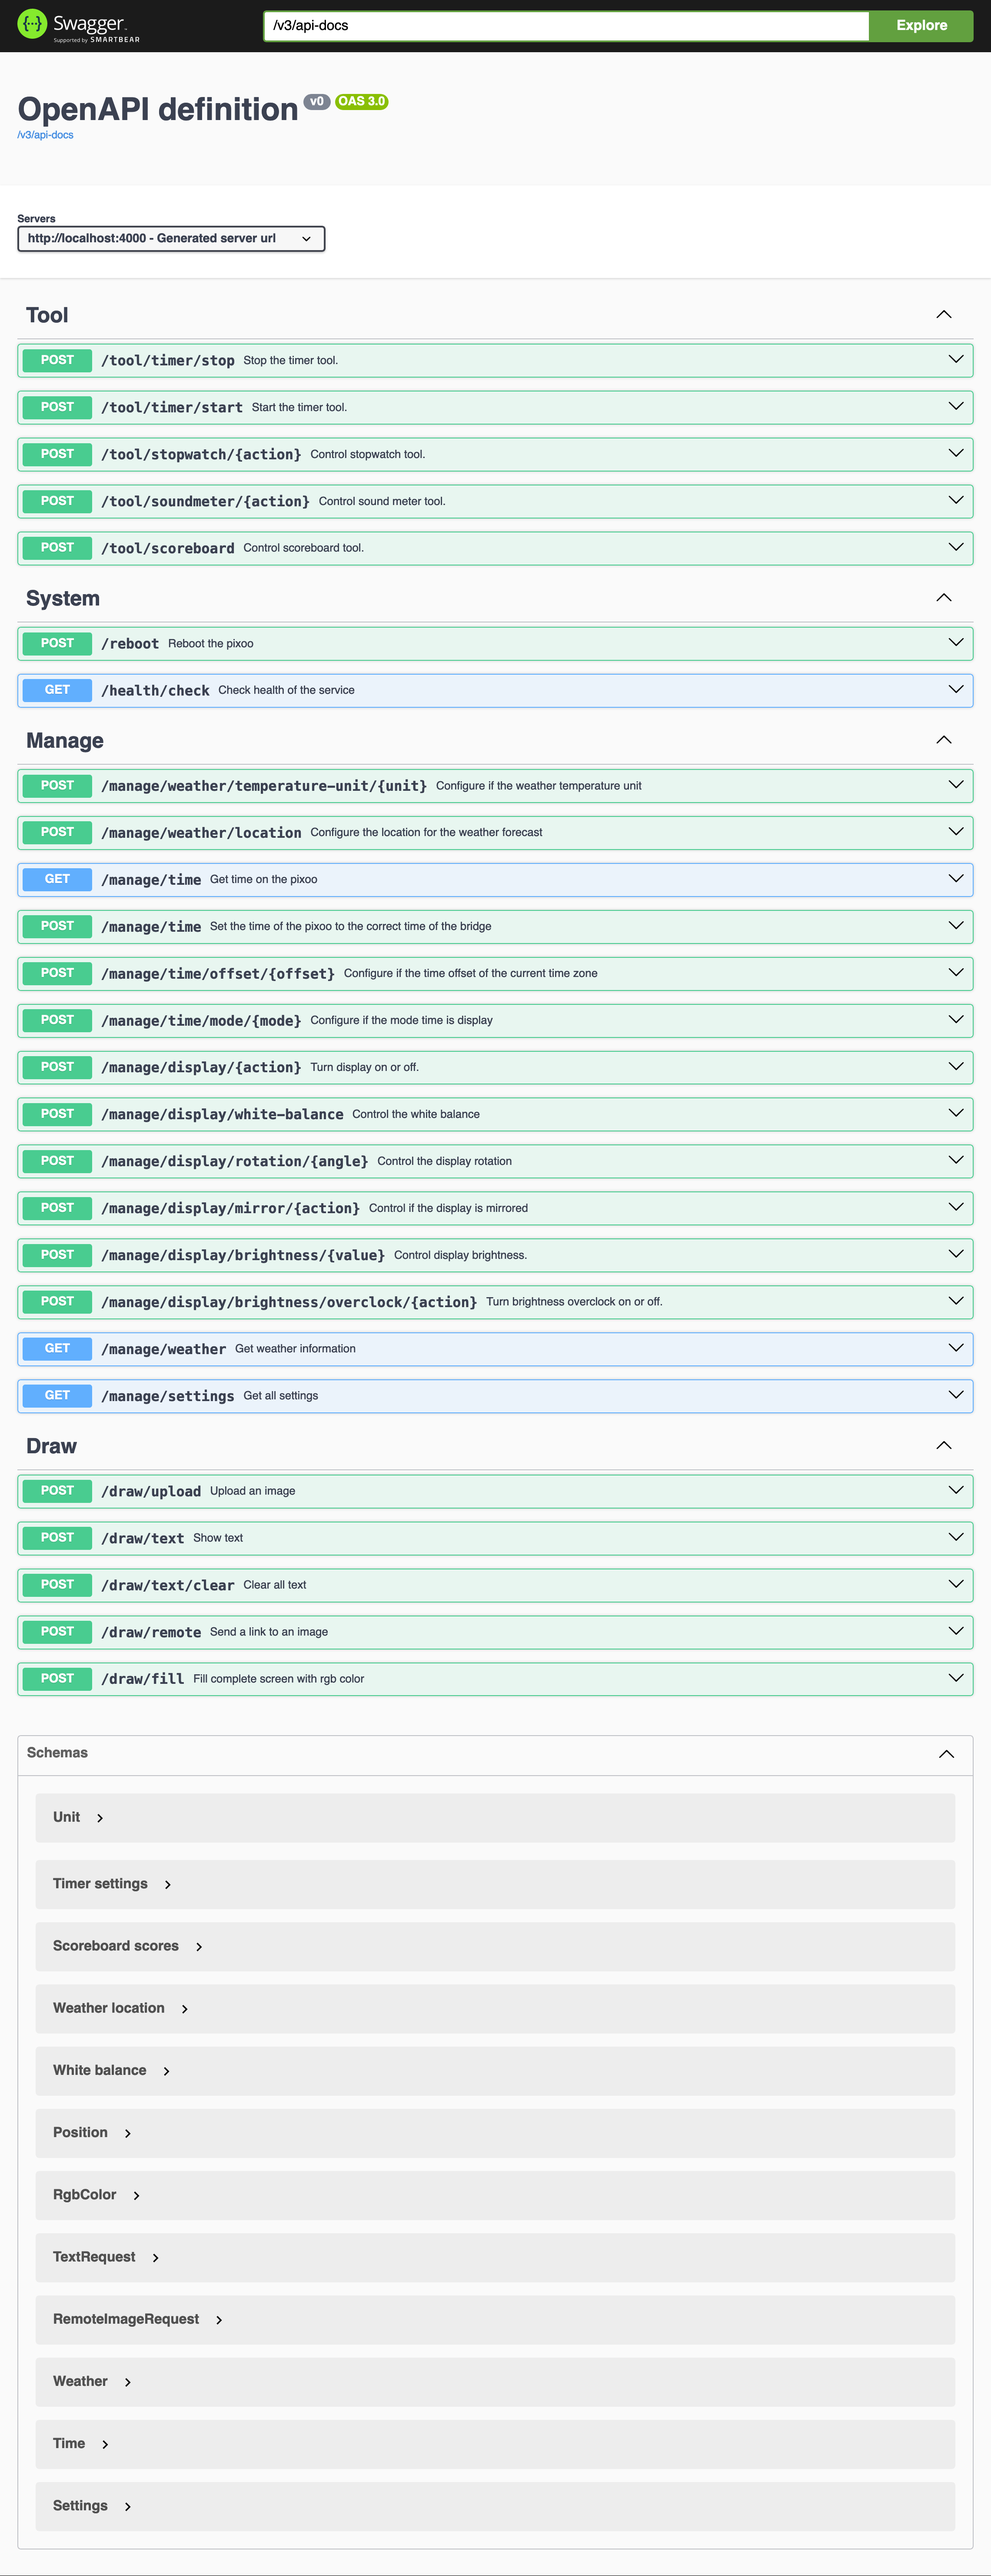
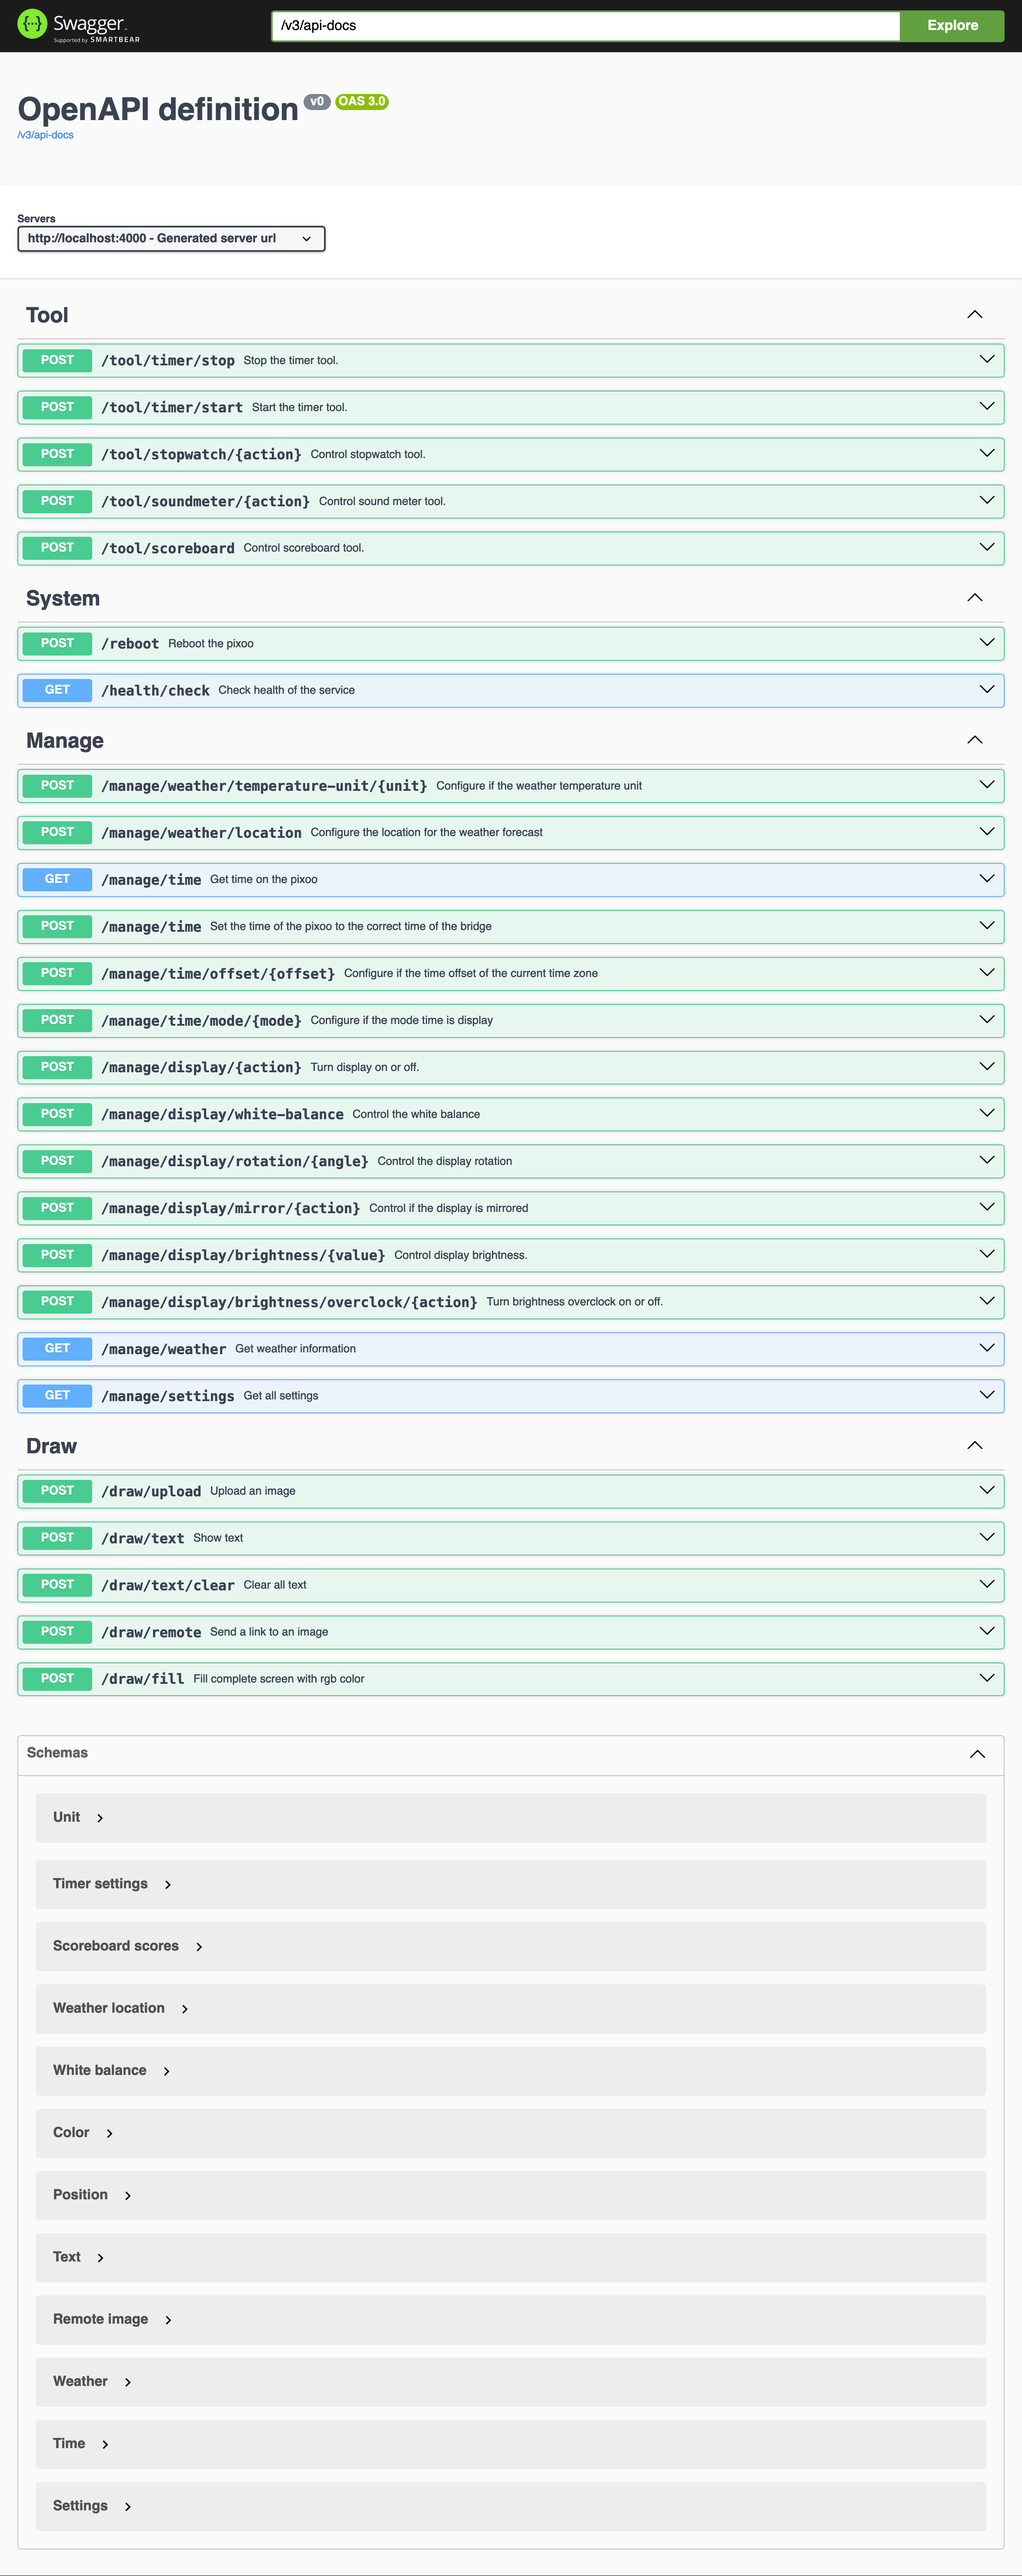
improve docs (#130)

diff --git a/src/main/kotlin/de/simplyroba/pixoobridge/bridge/draw/model/RemoteImageRequest.kt b/src/main/kotlin/de/simplyroba/pixoobridge/bridge/draw/model/RemoteImageRequest.kt
@@ -1,10 +1,11 @@
 package de.simplyroba.pixoobridge.bridge.draw.model
 
+import io.swagger.v3.oas.annotations.media.Schema
 import java.net.MalformedURLException
 import java.net.URI
 import java.net.URISyntaxException
 
-data class RemoteImageRequest(val link: String)
+@Schema(name = "Remote image") data class RemoteImageRequest(val link: String)
 
 fun RemoteImageRequest.valid(): Boolean {
   try {

diff --git a/src/main/kotlin/de/simplyroba/pixoobridge/bridge/draw/model/RgbColor.kt b/src/main/kotlin/de/simplyroba/pixoobridge/bridge/draw/model/RgbColor.kt
@@ -2,6 +2,7 @@ package de.simplyroba.pixoobridge.bridge.draw.model
 
 import io.swagger.v3.oas.annotations.media.Schema
 
+@Schema(name = "Color")
 data class RgbColor(
   @Schema(minimum = "0", maximum = "255") val red: Int,
   @Schema(minimum = "0", maximum = "255") val green: Int,

diff --git a/src/main/kotlin/de/simplyroba/pixoobridge/bridge/draw/model/TextRequest.kt b/src/main/kotlin/de/simplyroba/pixoobridge/bridge/draw/model/TextRequest.kt
@@ -2,6 +2,7 @@ package de.simplyroba.pixoobridge.bridge.draw.model
 
 import io.swagger.v3.oas.annotations.media.Schema
 
+@Schema(name = "Text")
 data class TextRequest(
   @Schema(minimum = "0", maximum = "20") val id: Int,
   val position: Position,
